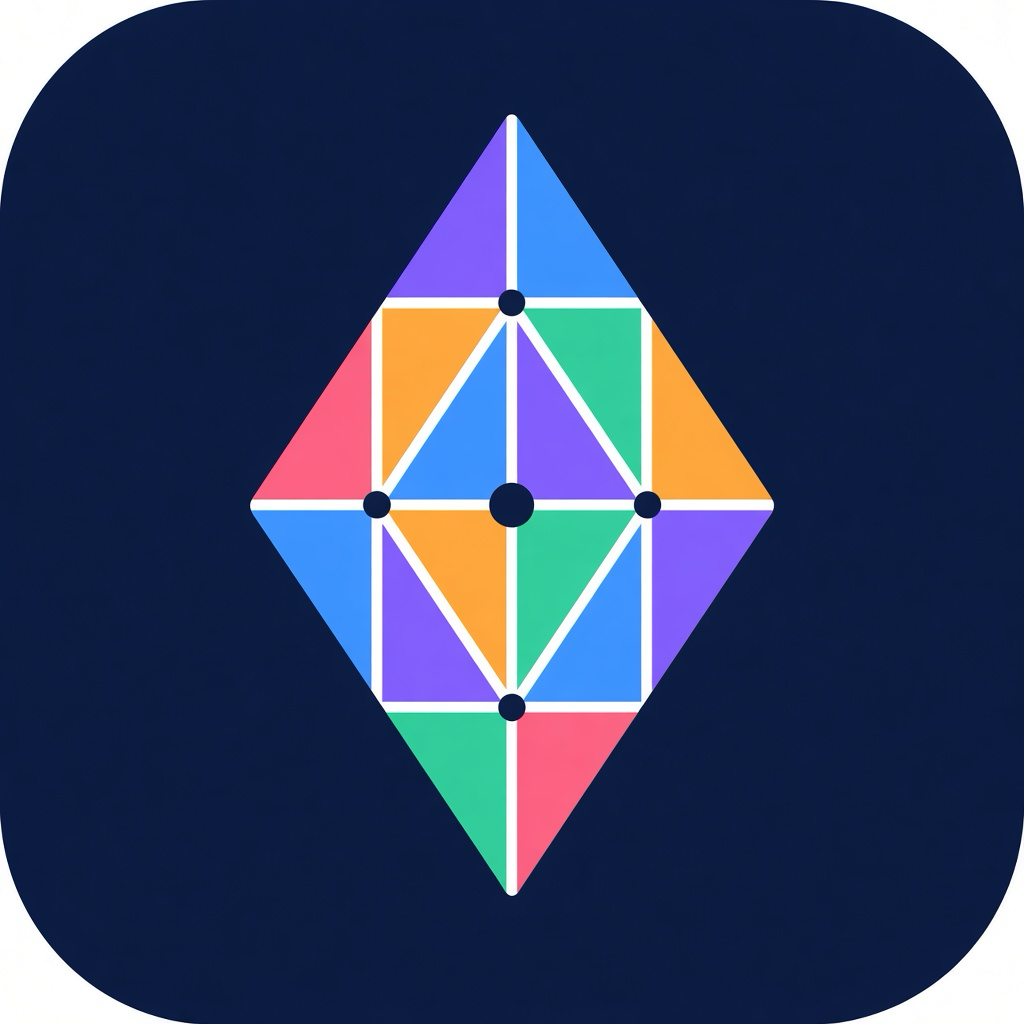
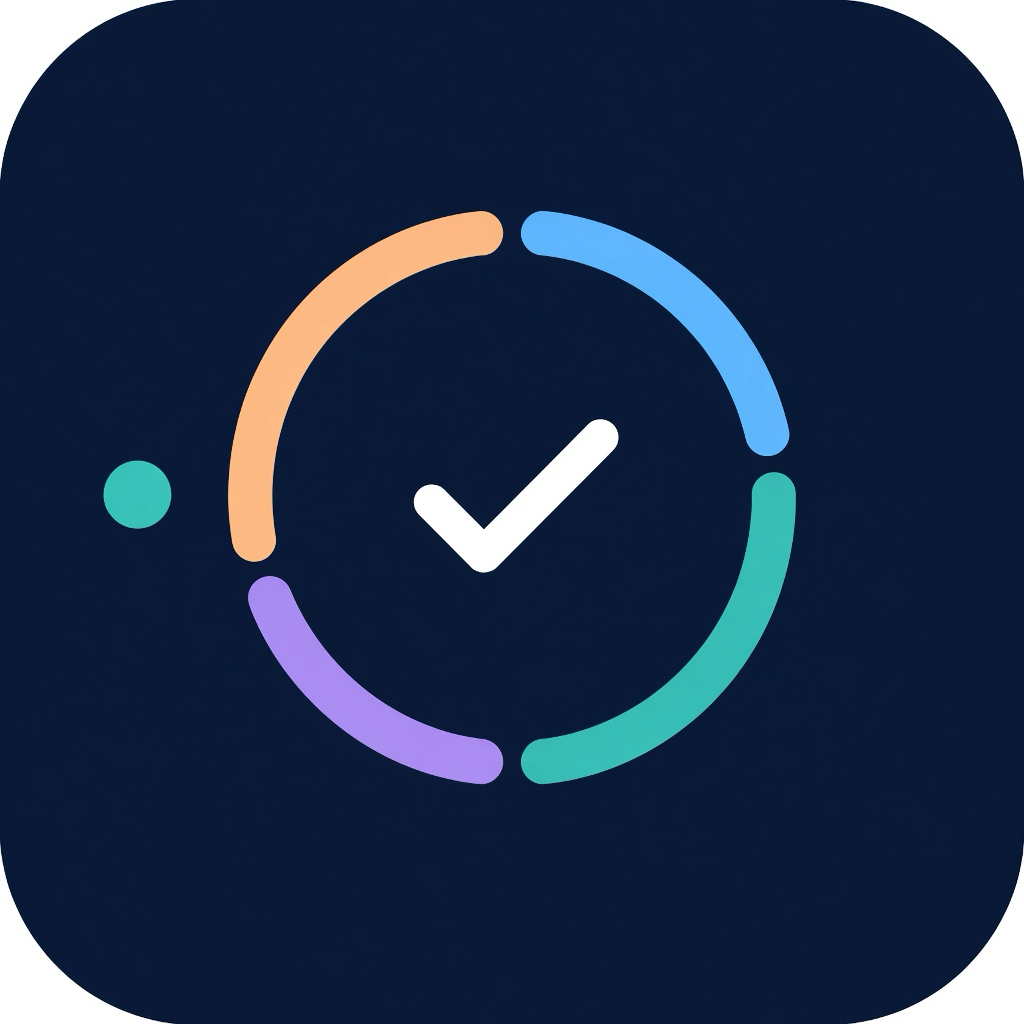
feat(app): update SVG assets and styles for OnShift branding
Revise the SVG files for the OnShift favicon, brand marks, and wordmark to incorporate a new design featuring a shift-clock theme. Enhance the CSS styles to align with the updated branding, including adjustments to background colors and gradients for UI components. Update the BrandMark component to utilize the new SVG assets, ensuring consistency across the application.

diff --git a/app/src/pages/Home.tsx b/app/src/pages/Home.tsx
@@ -21,10 +21,10 @@ const ATTACKS: { try: string; result: string; who: string; ok?: boolean }[] = [
   { try: "Refund the real customer, within cap", result: "allowed", who: "The only thing a pass can do", ok: true },
 ];
 
-const DOORS: { route: Route; icon: typeof BadgeCheck; title: string; body: string; cta: string }[] = [
-  { route: "verify", icon: BadgeCheck, title: "Check someone", body: "Paste a name. If they DMed you as support, this is the check.", cta: "Public Check" },
-  { route: "try", icon: FlaskConical, title: "Try a demo pass", body: "Mint under demo.onshift.eth — never real staff, never the production till.", cta: "Playground" },
-  { route: "device", icon: Smartphone, title: "I'm on shift", body: "Refunds only go back to the wallet that paid.", cta: "Staff App" },
+const DOORS: { route: Route; icon: typeof BadgeCheck; title: string; body: string; cta: string; tone: "sky" | "violet" | "teal" }[] = [
+  { route: "verify", icon: BadgeCheck, title: "Check someone", body: "Paste a name. If they DMed you as support, this is the check.", cta: "Public Check", tone: "sky" },
+  { route: "try", icon: FlaskConical, title: "Try a demo pass", body: "Mint under demo.onshift.eth — never real staff, never the production till.", cta: "Playground", tone: "violet" },
+  { route: "device", icon: Smartphone, title: "I'm on shift", body: "Refunds only go back to the wallet that paid.", cta: "Staff App", tone: "teal" },
 ];
 
 export function Home() {
@@ -54,7 +54,7 @@ export function Home() {
     <div className={`landing ns ${dark ? "ns-dark" : "ns-light"}`}>
       <header className="landing-bar">
         <a className="app-mark" href="#/home" aria-label="OnShift home">
-          <img src="/brand/onshift-mark.png" width={38} height={38} alt="" style={{ borderRadius: 10 }} />
+          <img src="/brand/onshift-mark.svg" width={38} height={38} alt="" style={{ borderRadius: 10 }} />
           <span className="brand-word">OnShift</span>
         </a>
         <div className="row landing-nav">
@@ -120,13 +120,21 @@ export function Home() {
               </div>
               <div className="pass-ring">
                 <svg viewBox="0 0 190 190" aria-hidden>
+                  <defs>
+                    <linearGradient id="shiftArc" x1="0%" y1="0%" x2="100%" y2="100%">
+                      <stop offset="0%" stopColor="#4A90E2" />
+                      <stop offset="35%" stopColor="#45C486" />
+                      <stop offset="70%" stopColor="#8E71EB" />
+                      <stop offset="100%" stopColor="#F5A623" />
+                    </linearGradient>
+                  </defs>
                   <circle cx="95" cy="95" r="84" fill="none" stroke="currentColor" strokeWidth="10" className="pass-ring-track" />
                   <circle
                     cx="95"
                     cy="95"
                     r="84"
                     fill="none"
-                    stroke="currentColor"
+                    stroke="url(#shiftArc)"
                     strokeWidth="10"
                     strokeLinecap="round"
                     strokeDasharray={RING}
@@ -199,8 +207,10 @@ export function Home() {
 
       <section className="doors">
         {DOORS.map((door) => (
-          <button key={door.route} className="door" type="button" onClick={() => navigate(door.route)}>
-            <door.icon size={22} strokeWidth={2.2} />
+          <button key={door.route} className={`door tone-${door.tone}`} type="button" onClick={() => navigate(door.route)}>
+            <span className="door-icon">
+              <door.icon size={20} strokeWidth={2.2} />
+            </span>
             <div className="door-title">{door.title}</div>
             <div className="door-body">{door.body}</div>
             <div className="door-cta">

diff --git a/app/src/styles.css b/app/src/styles.css
@@ -1,4 +1,4 @@
-/* OnShift — faceted brand: navy ink, sky CTA, mosaic accents (violet / teal / peach / coral). */
+/* OnShift — shift-clock brand: navy ink, sky CTA, teal live, violet / peach accents. */
 
 :root {
   --ink: #0b1430;
@@ -314,7 +314,7 @@ textarea {
 }
 
 .nav-item.active {
-  background: var(--fill);
+  background: var(--blue-tint);
   font-weight: 600;
 }
 
@@ -1573,9 +1573,13 @@ textarea.input {
   color: var(--label);
 }
 
-.journey li.here span,
+.journey li.here span {
+  background: linear-gradient(135deg, #4a90e2, #8e71eb);
+  color: #fff;
+}
+
 .journey li.done span {
-  background: var(--blue);
+  background: var(--teal);
   color: #fff;
 }
 
@@ -2243,7 +2247,6 @@ body:has(.landing.ns-light) {
 }
 
 .landing.ns .pass-ring-arc {
-  color: var(--ns-live);
   transition: stroke-dashoffset 0.9s linear;
 }
 
@@ -2337,6 +2340,7 @@ body:has(.landing.ns-light) {
 }
 
 .landing.ns .door {
+  --door-accent: var(--sky);
   text-align: left;
   background: var(--ns-panel);
   border: 1px solid var(--ns-line);
@@ -2348,18 +2352,33 @@ body:has(.landing.ns-light) {
   cursor: pointer;
   font: inherit;
   color: inherit;
-  transition: border-color 0.15s ease, transform 0.15s ease;
+  transition: border-color 0.15s ease, transform 0.15s ease, box-shadow 0.15s ease;
 }
 
+.landing.ns .door.tone-sky { --door-accent: #4a90e2; }
+.landing.ns .door.tone-violet { --door-accent: #8e71eb; }
+.landing.ns .door.tone-teal { --door-accent: #45c486; }
+
 .landing.ns .door:hover {
-  border-color: var(--ns-live);
+  border-color: color-mix(in srgb, var(--door-accent) 55%, var(--ns-line));
+  box-shadow: 0 10px 28px color-mix(in srgb, var(--door-accent) 14%, transparent);
   transform: translateY(-2px);
+}
+
+.landing.ns .door-icon {
+  width: 36px;
+  height: 36px;
+  border-radius: 10px;
+  display: grid;
+  place-items: center;
+  color: var(--door-accent);
+  background: color-mix(in srgb, var(--door-accent) 14%, transparent);
 }
 
 .landing.ns .door-title {
   font-size: 17px;
   font-weight: 650;
-  margin-top: 6px;
+  margin-top: 4px;
 }
 
 .landing.ns .door-body {
@@ -2370,7 +2389,7 @@ body:has(.landing.ns-light) {
 }
 
 .landing.ns .door-cta {
-  color: var(--ns-live);
+  color: var(--door-accent);
   font-size: 14px;
   font-weight: 600;
   display: inline-flex;

diff --git a/app/src/components/BrandMark.tsx b/app/src/components/BrandMark.tsx
@@ -6,12 +6,12 @@ type Props = {
   sub?: string;
 };
 
-/** Shared OnShift mark — faceted diamond from the product brand. */
+/** Shared OnShift mark — shift-clock ring + check, brand palette. */
 export function BrandMark({ size = 32, light = false, className, withWord = false, sub }: Props) {
-  const src = light ? "/brand/onshift-mark-light.svg" : "/brand/onshift-mark.png";
+  const src = light ? "/brand/onshift-mark-light.svg" : "/brand/onshift-mark.svg";
   return (
     <span className={`brand-mark ${className ?? ""}`} style={{ display: "inline-flex", alignItems: "center", gap: 10 }}>
-      <img src={src} width={size} height={size} alt="" style={{ borderRadius: Math.round(size * 0.25), flex: "none", objectFit: "cover" }} />
+      <img src={src} width={size} height={size} alt="" style={{ borderRadius: Math.round(size * 0.25), flex: "none" }} />
       {withWord && (
         <span className="brand-mark-copy">
           <span className="brand-mark-word">OnShift</span>

diff --git a/app/src/pages/TryPage.tsx b/app/src/pages/TryPage.tsx
@@ -287,7 +287,7 @@ function Shell({ children }: { children: React.ReactNode }) {
       <NetworkNote compact />
       <div className="device-bar">
         <span className="btn" style={{ pointerEvents: "none", gap: 8 }}>
-          <img src="/brand/onshift-mark.png" width={20} height={20} alt="" style={{ borderRadius: 5 }} />
+          <img src="/brand/onshift-mark.svg" width={22} height={22} alt="" style={{ borderRadius: 6 }} />
           Playground
         </span>
         <div className="row">
